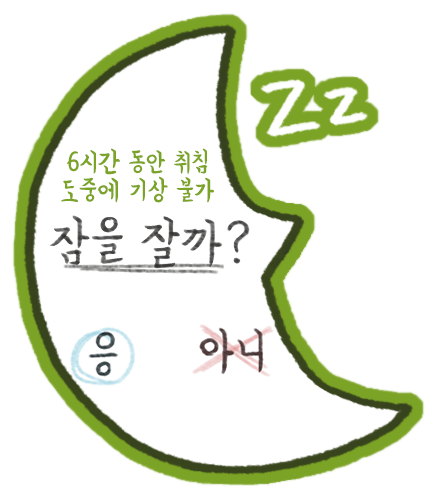
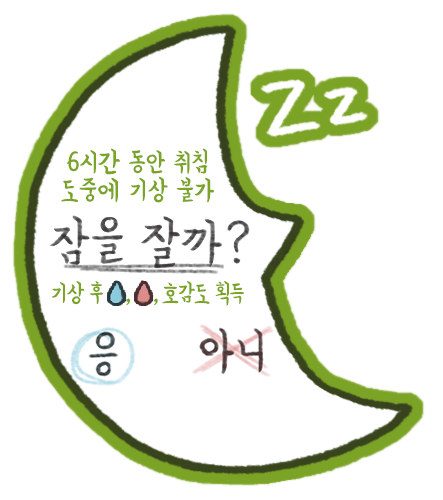
ㅈㄱㄴ
뒤로가기 종료기능
아이콘
잠자기 팝업

Changed region(s): [[0.1174, 0.54, 0.5576, 0.63]]

diff --git a/_Script/TalkEvt.cs b/_Script/TalkEvt.cs
@@ -52,6 +52,10 @@ public class TalkEvt : MonoBehaviour {
     //나가기
     public GameObject exitTalkBalln;
     public Text exitText;
+    int exCk = 0;
+    //종료
+    int exit_int, exitTalk;
+    int cnt_exit;
 
 
     // Use this for initialization
@@ -77,18 +81,21 @@ public class TalkEvt : MonoBehaviour {
     void Update()
     {
         if (Input.GetKeyDown(KeyCode.Escape))
-        {
+            {
 
             if (!exitTalkBalln.activeSelf)
             {
+                exit_int = 1;
                 exitTalkBalln.SetActive(true); //대화창 새로만들기
-                //여기다 상황에 따른 문구 수정하면 될듯
+                                               //여기다 상황에 따른 문구 수정하면 될듯
                 if (PlayerPrefs.GetInt("sleepTxt", 0) == 1)
                 {
+                    //여기다 <아이콘 false 깨어 있을 때는 true
                     exitText.text = "(자고있다. 조용히 나갈까?)\n뒤로두번 종료";
                 }
                 else
                 {
+                    //깨어 있을 때는 true
                     exitText.text = "가는거니?\n뒤로두번 종료";
                 }
             }
@@ -96,9 +103,35 @@ public class TalkEvt : MonoBehaviour {
             {
                 StartCoroutine("quitGame");
             }
-
-            //System.Diagnostics.Process.GetCurrentProcess().Kill();
         }
+
+
+        if (exit_int == 1)
+        {
+            cnt_exit++;
+        }
+        if (cnt_exit == 150)
+        {
+            if (PlayerPrefs.GetInt("sleepTxt", 0) == 1)
+            {
+                //여기다 <아이콘 false 깨어 있을 때는 true
+                exitText.text = "(..흠)";
+            }
+            else
+            {
+                //깨어 있을 때는 true
+                exitText.text = "..음";
+            }
+
+        }
+        else if (cnt_exit == 250)
+        {
+            exitTalkBalln.SetActive(false);
+            exit_int = 0;
+            cnt_exit = 0;
+        }
+
+
     }
 
     void OnApplicationQuit()
@@ -121,6 +154,7 @@ public class TalkEvt : MonoBehaviour {
                 }
                 else
                 {
+                    //호감도에 따른 종료 메세지
                     exitText.text = "잘가";
                 }
                 
